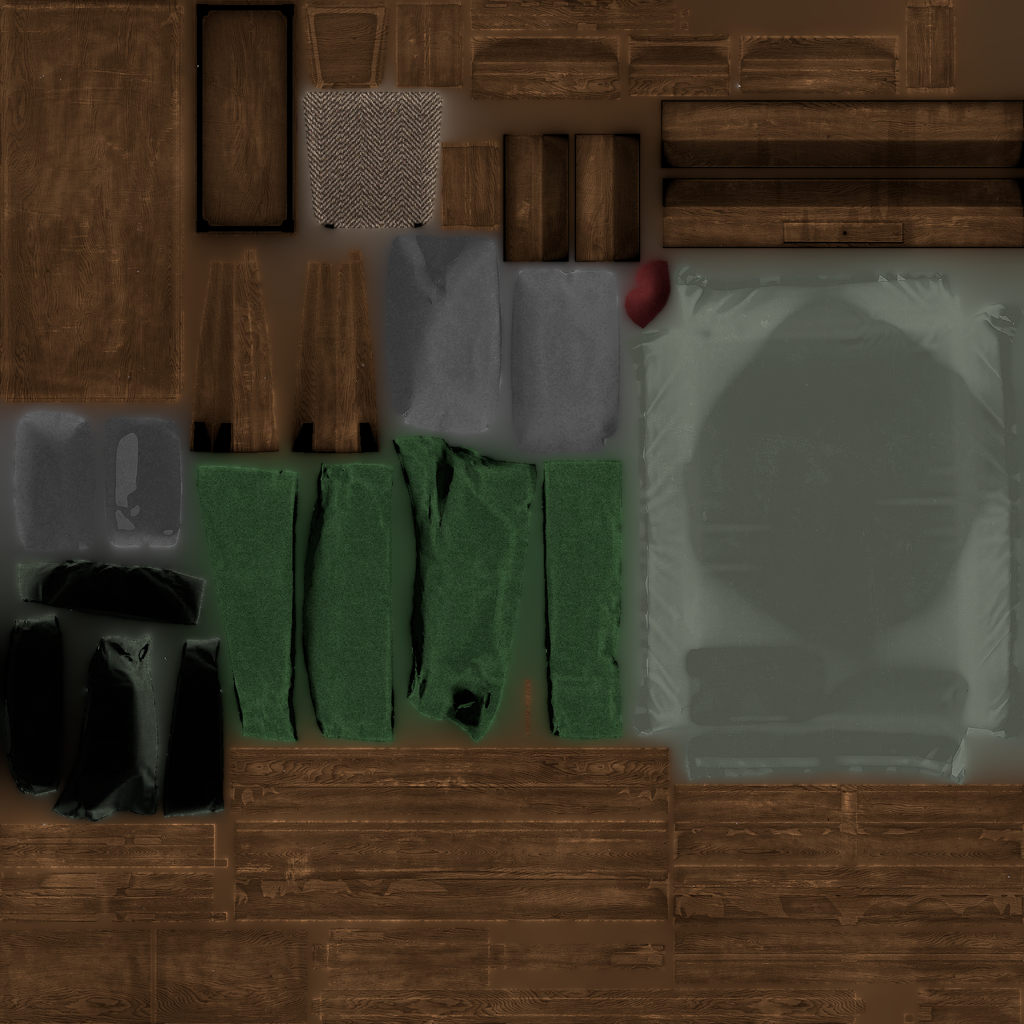
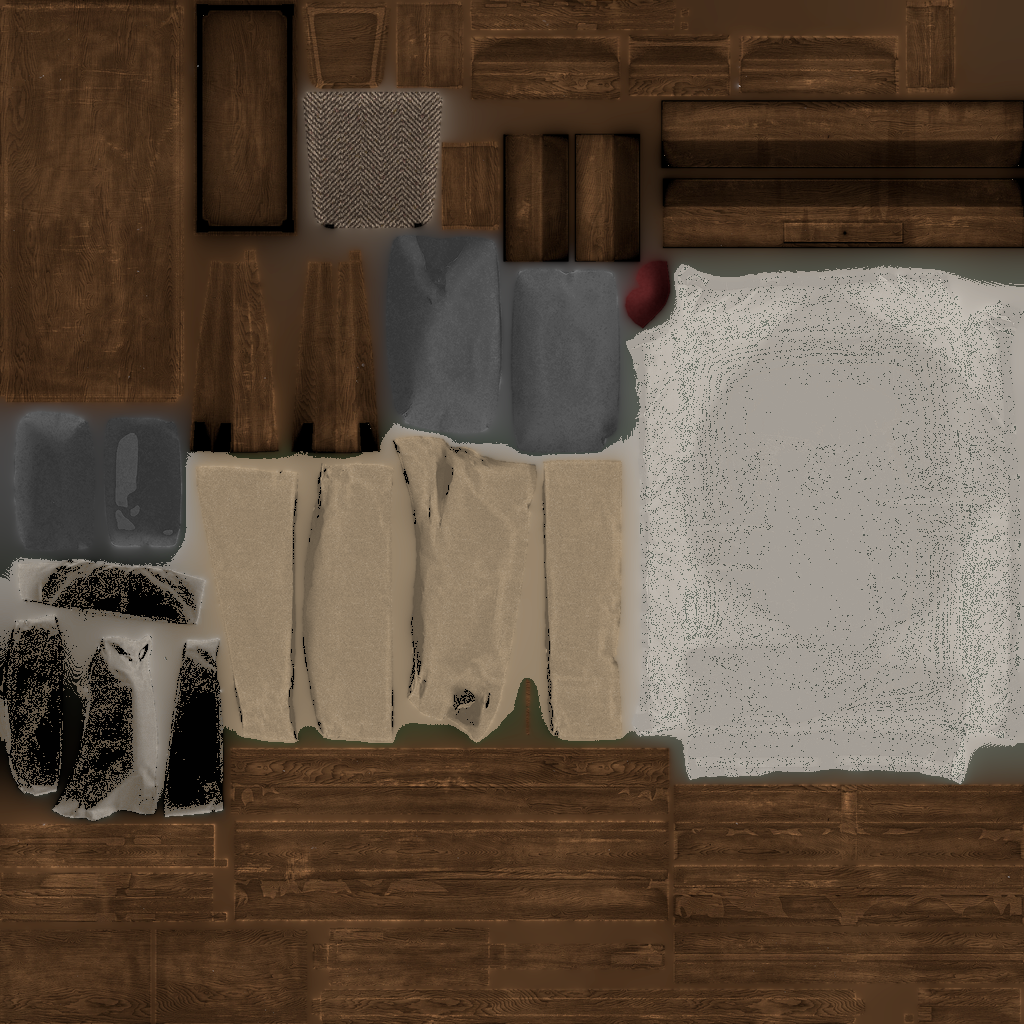
fix(bedroom): lay the floor cushions flat, and start on the bed
CUSHIONS. Rendering the asset alone on a floor plane — which I should have done
before placing it — showed what throw_pillows_01 actually is: a pair of sofa
pillows modelled plump and propped upright against each other. That is why they
read as pointed teardrops standing on the carpet.

There is no rotation that lays one flat. Sweeping rotX from 0 to -120 only ever
made the bounding box TALLER (0.450 -> 0.769 for pillow01), because they already
rest as low as they get. So they are squashed to 0.45 on Y instead, giving a
0.20 m thick cushion. A non-uniform squash is fine here where it would have been
unacceptable on the wardrobe: a soft object has no straight lines to distort, and
a compressed crease is what a floor cushion under weight looks like anyway.

They also now RING the rug (x -1.4..1.0, z -0.8..0.9), each overlapping its edge
and yawed off-axis, rather than sitting at arbitrary spots unrelated to it —
which was the "placed better" complaint. Scaled 0.85 across so the scatter
breathes.

BED. The bedding was green. This is one mesh, one surface, one 1024 atlas that is
54% brown wood frame, 17% green duvet and 25% desaturated sheets, so a flat
re-skin would have recoloured the frame too, and a material tint cannot change a
hue at all — albedo_color multiplies, so green times cream is muddy green.

New Tools/recolour_texture.py rewrites just the green hue band in HSV, keeping V
so every fold and shadow in the fabric survives. The untouched download is kept
[…]

diff --git a/Tools/recolour_texture.py b/Tools/recolour_texture.py
@@ -1,0 +1,113 @@
+#!/usr/bin/env python3
+"""Re-hue one colour range of a texture, leaving the rest alone.
+
+Downloaded furniture keeps arriving in a colourway that fights this room, and the
+fix is rarely a material tint: `albedo_color` MULTIPLIES, so it can darken and
+desaturate but never change a hue. Green times cream is muddy green, not cream.
+
+Where the offending colour occupies a distinct hue band in the texture, and the
+rest of the atlas does not, it can be replaced properly. The bed is the case this
+was written for: one mesh, one surface, one 1024x1024 atlas that is 54% brown
+wood frame, 17% green duvet and 25% desaturated sheets. Selecting the green band
+recolours the bedding and leaves the frame untouched.
+
+Works in HSV and **keeps V**, so every fold, crease and shadow in the fabric
+survives — only hue and saturation move. That is the difference between this and
+rebuilding a texture from luminance, which flattens whatever print was there (and
+preserved a chevron it was meant to remove, on the cushions).
+
+    python3 Tools/recolour_texture.py IN OUT --hue 70 170 --to-hue 36 \\
+        --sat-scale 0.35 --sat-max 0.20 --val-gain 1.2
+
+Angles are degrees on the 0-360 colour wheel: ~35 warm tan, ~90 green, ~210 blue.
+"""
+
+import argparse
+
+import numpy as np
+from PIL import Image
+
+
+def rgb_to_hsv(a):
+    """Vectorised RGB->HSV on a float array in 0..1. Returns H in degrees."""
+    mx = a.max(axis=2)
+    mn = a.min(axis=2)
+    d = mx - mn
+    r, g, b = a[..., 0], a[..., 1], a[..., 2]
+    h = np.zeros_like(mx)
+    nz = d > 1e-9
+    safe = np.maximum(d, 1e-9)
+    h = np.where(nz & (mx == r), ((g - b) / safe) % 6.0, h)
+    h = np.where(nz & (mx == g), (b - r) / safe + 2.0, h)
+    h = np.where(nz & (mx == b), (r - g) / safe + 4.0, h)
+    s = np.where(mx > 1e-9, d / np.maximum(mx, 1e-9), 0.0)
+    return h * 60.0, s, mx
+
+
+def hsv_to_rgb(h, s, v):
+    h = np.mod(h, 360.0) / 60.0
+    i = np.floor(h).astype(int)
+    f = h - i
+    p = v * (1.0 - s)
+    q = v * (1.0 - s * f)
+    t = v * (1.0 - s * (1.0 - f))
+    i = i % 6
+    out = np.zeros(h.shape + (3,))
+    for k, (rr, gg, bb) in enumerate(((v, t, p), (q, v, p), (p, v, t),
+                                      (p, q, v), (t, p, v), (v, p, q))):
+        m = i == k
+        out[..., 0] = np.where(m, rr, out[..., 0])
+        out[..., 1] = np.where(m, gg, out[..., 1])
+        out[..., 2] = np.where(m, bb, out[..., 2])
+    return out
+
+
+def recolour(src, hue_lo, hue_hi, to_hue, sat_scale, sat_max, val_gain, sat_min,
+             val_lift=0.0):
+    a = np.asarray(Image.open(src).convert("RGB"), dtype=float) / 255.0
+    h, s, v = rgb_to_hsv(a)
+
+    if hue_lo <= hue_hi:
+        in_band = (h >= hue_lo) & (h <= hue_hi)
+    else:                                   # a band that wraps through red
+        in_band = (h >= hue_lo) | (h <= hue_hi)
+    sel = in_band & (s >= sat_min)
+
+    h2 = np.where(sel, float(to_hue), h)
+    s2 = np.where(sel, np.minimum(s * sat_scale, sat_max), s)
+    # Gain alone cannot lighten a dark fabric: multiplying clips the highlights
+    # while the shadowed folds stay dark, so the whole thing reads mid-tone. The
+    # lift blends toward white instead, which raises the shadows too — that is
+    # what turns a mid green duvet into a cream one.
+    vg = np.clip(v * val_gain, 0.0, 1.0)
+    v2 = np.where(sel, vg * (1.0 - val_lift) + val_lift, v)
+    out = hsv_to_rgb(h2, s2, v2)
+    return Image.fromarray((np.clip(out, 0.0, 1.0) * 255.0).astype("uint8")), \
+        float(sel.sum()) / sel.size
+
+
+def main():
+    ap = argparse.ArgumentParser()
+    ap.add_argument("src")
+    ap.add_argument("dst")
+    ap.add_argument("--hue", nargs=2, type=float, required=True,
+                    metavar=("LO", "HI"), help="hue band to replace, degrees")
+    ap.add_argument("--to-hue", type=float, required=True)
+    ap.add_argument("--sat-scale", type=float, default=0.4)
+    ap.add_argument("--sat-max", type=float, default=0.25)
+    ap.add_argument("--sat-min", type=float, default=0.10,
+                    help="ignore pixels below this saturation; they are greys")
+    ap.add_argument("--val-gain", type=float, default=1.0)
+    ap.add_argument("--val-lift", type=float, default=0.0,
+                    help="blend value toward white, 0..1; lightens shadows too")
+    args = ap.parse_args()
+
+    im, frac = recolour(args.src, args.hue[0], args.hue[1], args.to_hue,
+                        args.sat_scale, args.sat_max, args.val_gain, args.sat_min,
+                        args.val_lift)
+    im.save(args.dst)
+    print("wrote %s  (%.1f%% of pixels recoloured)" % (args.dst, 100.0 * frac))
+
+
+if __name__ == "__main__":
+    main()
